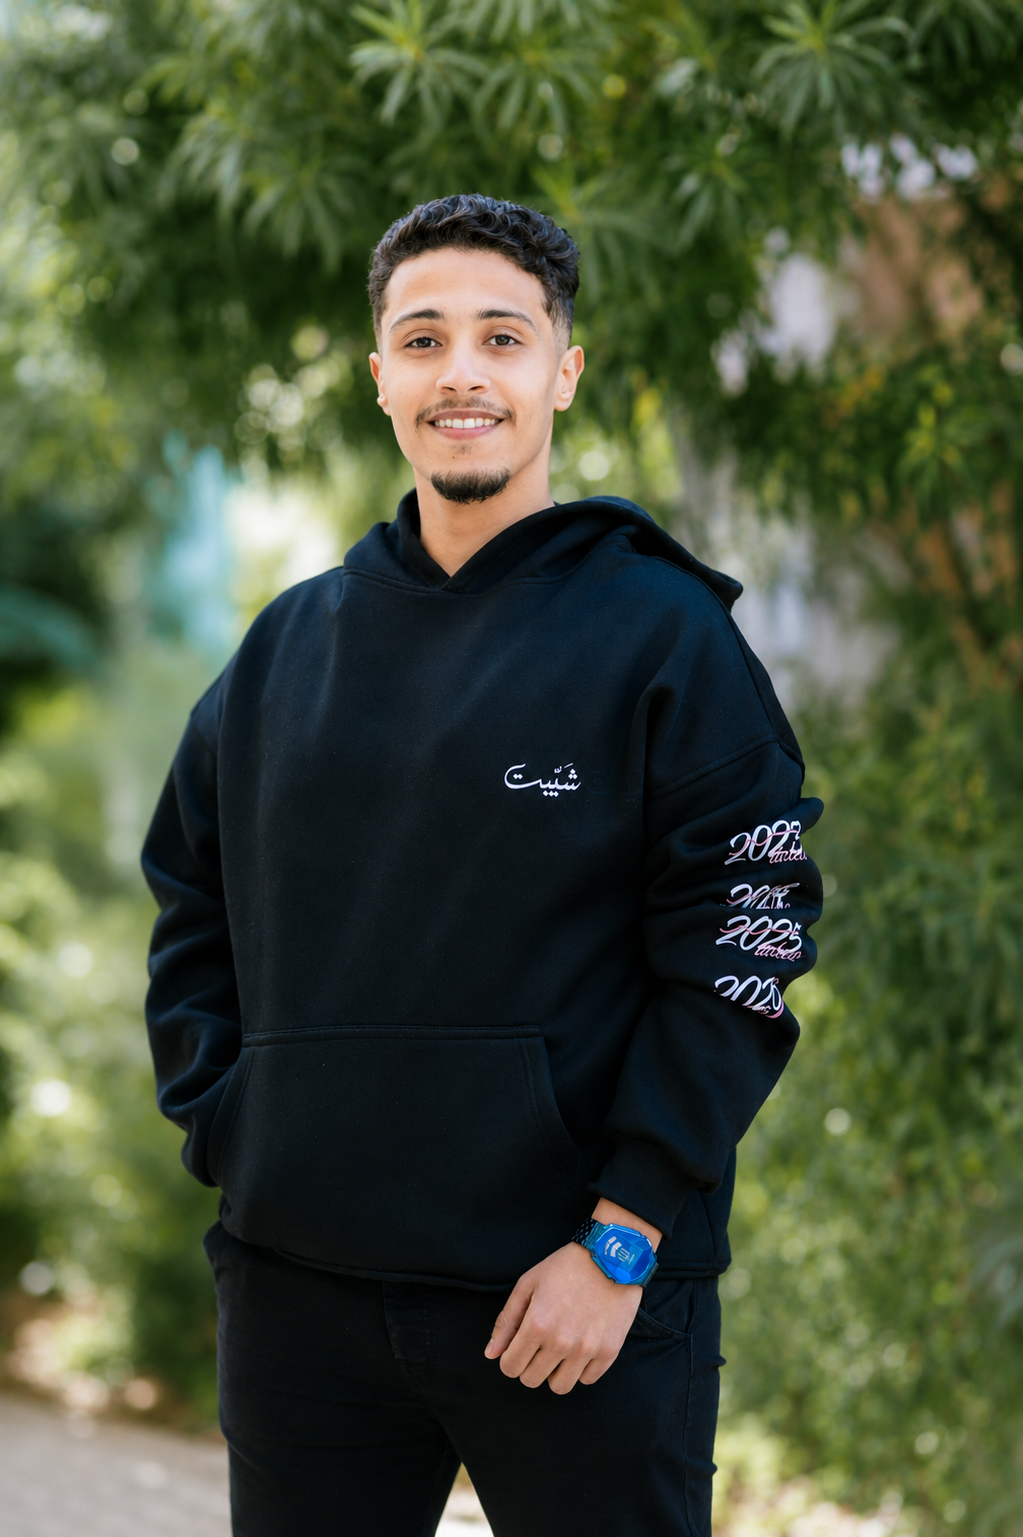
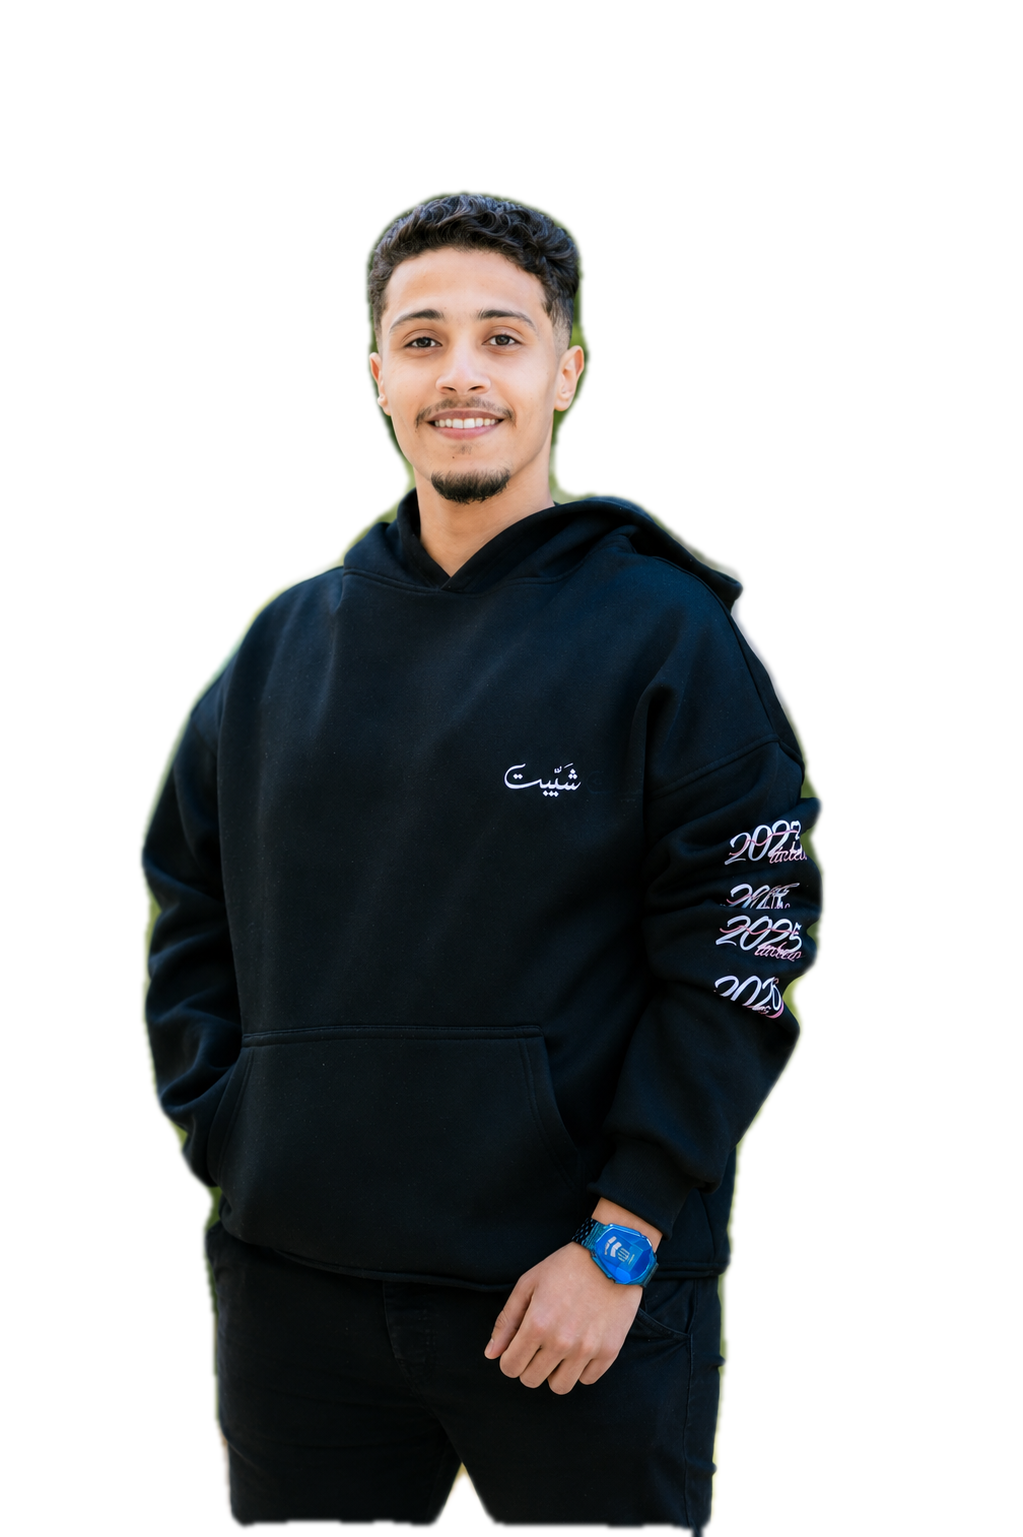
feat(hero): isolate portrait with clean alpha transparency and add cosmic depth aura

diff --git a/src/app/components/Hero.tsx b/src/app/components/Hero.tsx
@@ -233,16 +233,20 @@ export function Hero() {
           >
             {/* The full photo in complete height */}
             <div
-              className="relative h-full w-full overflow-hidden rounded-2xl border border-white/10"
+              className="relative h-full w-full overflow-hidden rounded-2xl border border-white/10 bg-gradient-to-b from-[#0e1738] via-[#060a1c] to-[#02030a] flex items-end justify-center"
               style={{ transform: 'translateZ(20px)' }}
             >
+              {/* Subtle Cosmic Aura Halo behind portrait */}
+              <div className="absolute top-1/3 left-1/2 -translate-x-1/2 -translate-y-1/2 w-64 h-64 rounded-full bg-[var(--space-cyan)]/20 blur-3xl pointer-events-none" />
+              <div className="absolute top-1/2 left-1/2 -translate-x-1/2 -translate-y-1/2 w-48 h-48 rounded-full bg-[var(--space-violet)]/25 blur-2xl pointer-events-none" />
+
               <img
                 src={portraitImg}
                 alt="Mohamed Shipet (Superior)"
-                className="h-full w-full object-cover object-top transition-transform duration-700 group-hover:scale-105"
+                className="h-full w-full object-cover object-top transition-transform duration-700 group-hover:scale-105 relative z-10"
               />
               {/* Subtle gradient vignette for depth */}
-              <div className="absolute inset-0 bg-gradient-to-t from-[var(--space-midnight)]/90 via-transparent to-transparent pointer-events-none" />
+              <div className="absolute inset-0 bg-gradient-to-t from-[var(--space-midnight)]/90 via-transparent to-transparent pointer-events-none z-20" />
               
               {/* Holographic Nameplate inside bottom of photo */}
               <div
